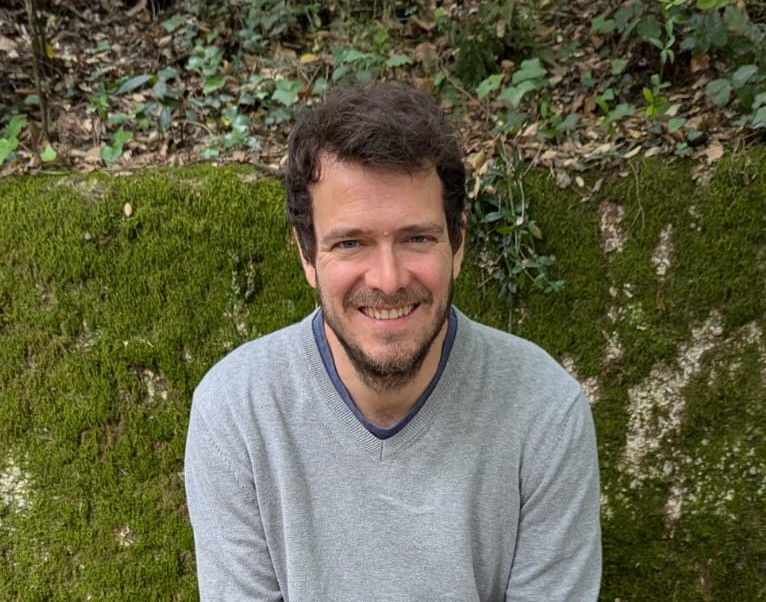
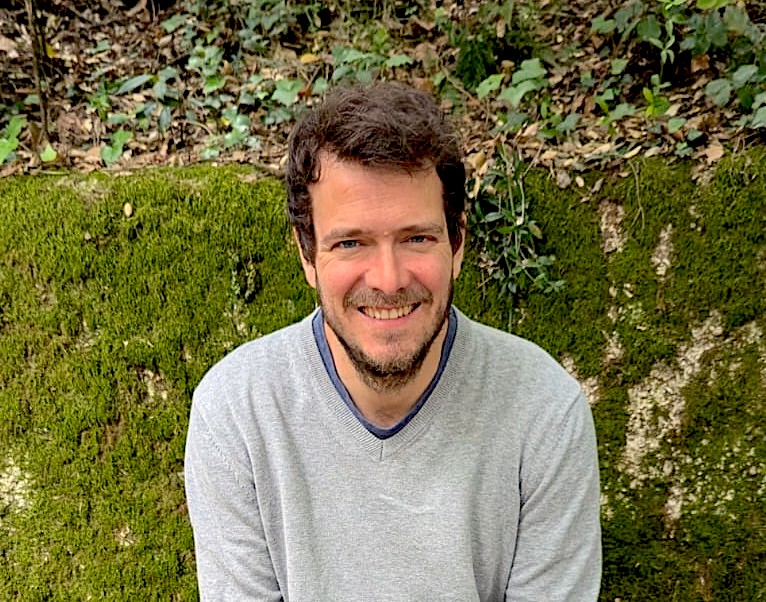
Add files via upload

diff --git a/sobre_mi.html b/sobre_mi.html
@@ -34,7 +34,7 @@
   "jobTitle": "Coach Personal y Ejecutivo",
   "description": "Coach personal certificado por Innerkey, escuela avalada por la ICF. Especializado en coaching transpersonal para profesionales que buscan propósito y claridad en su vida.",
   "url": "https://www.borjaarano.com",
-  "image": "https://www.borjaarano.com/images/home_hero_image.jpeg",
+  "image": "https://www.borjaarano.com/images/sobre_mi.jpg",
   "email": "hola@borjaarano.com",
   "sameAs": [
     "https://www.linkedin.com/in/borja-arano"
@@ -99,7 +99,7 @@
     </div>
 
     <div class="about-hero">
-        <img src="images/home_hero_image.jpeg" alt="Borja Arañó, coach personal certificado ICF en Barcelona">
+        <img src="images/sobre_mi.jpg" alt="Borja Arañó, coach personal certificado ICF en Barcelona">
     </div>
 
     <div class="about-layout">

diff --git a/es_para_mi.html b/es_para_mi.html
@@ -103,7 +103,7 @@
     </div>
 
     <div class="about-hero">
-        <img src="images/es_para_mi.png" alt="Borja Arañó, coach personal online para profesionales que buscan propósito y claridad">
+        <img src="images/es_para_mi.jpg" alt="Borja Arañó, coach personal online para profesionales que buscan propósito y claridad">
     </div>
 
     <div class="about-layout">
